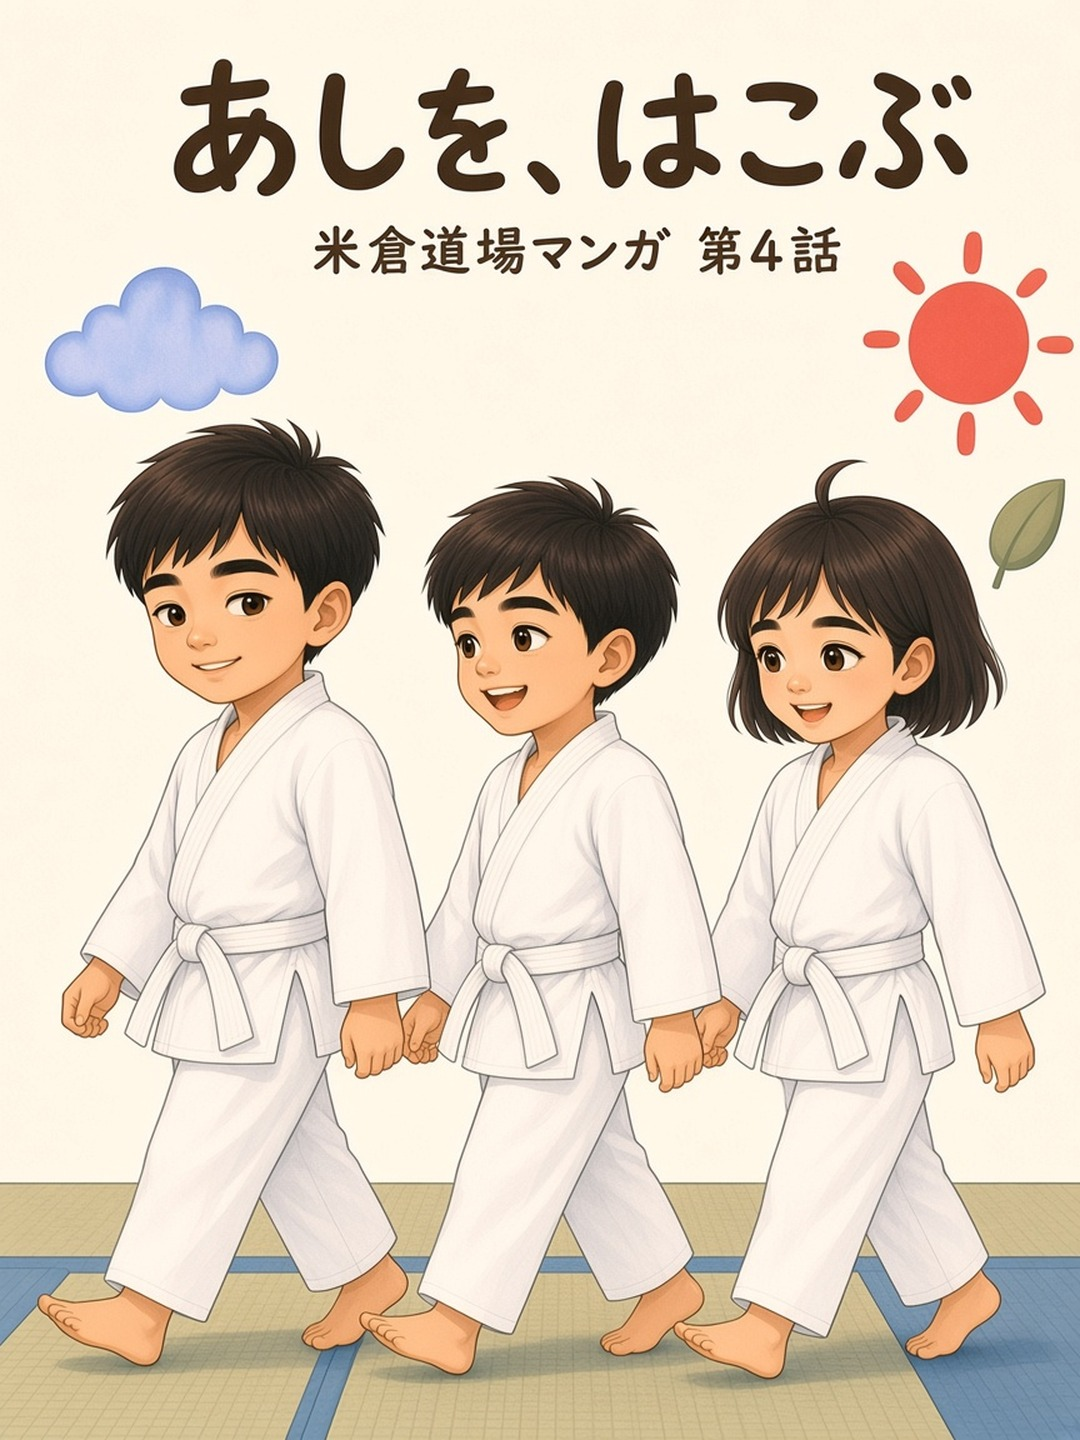
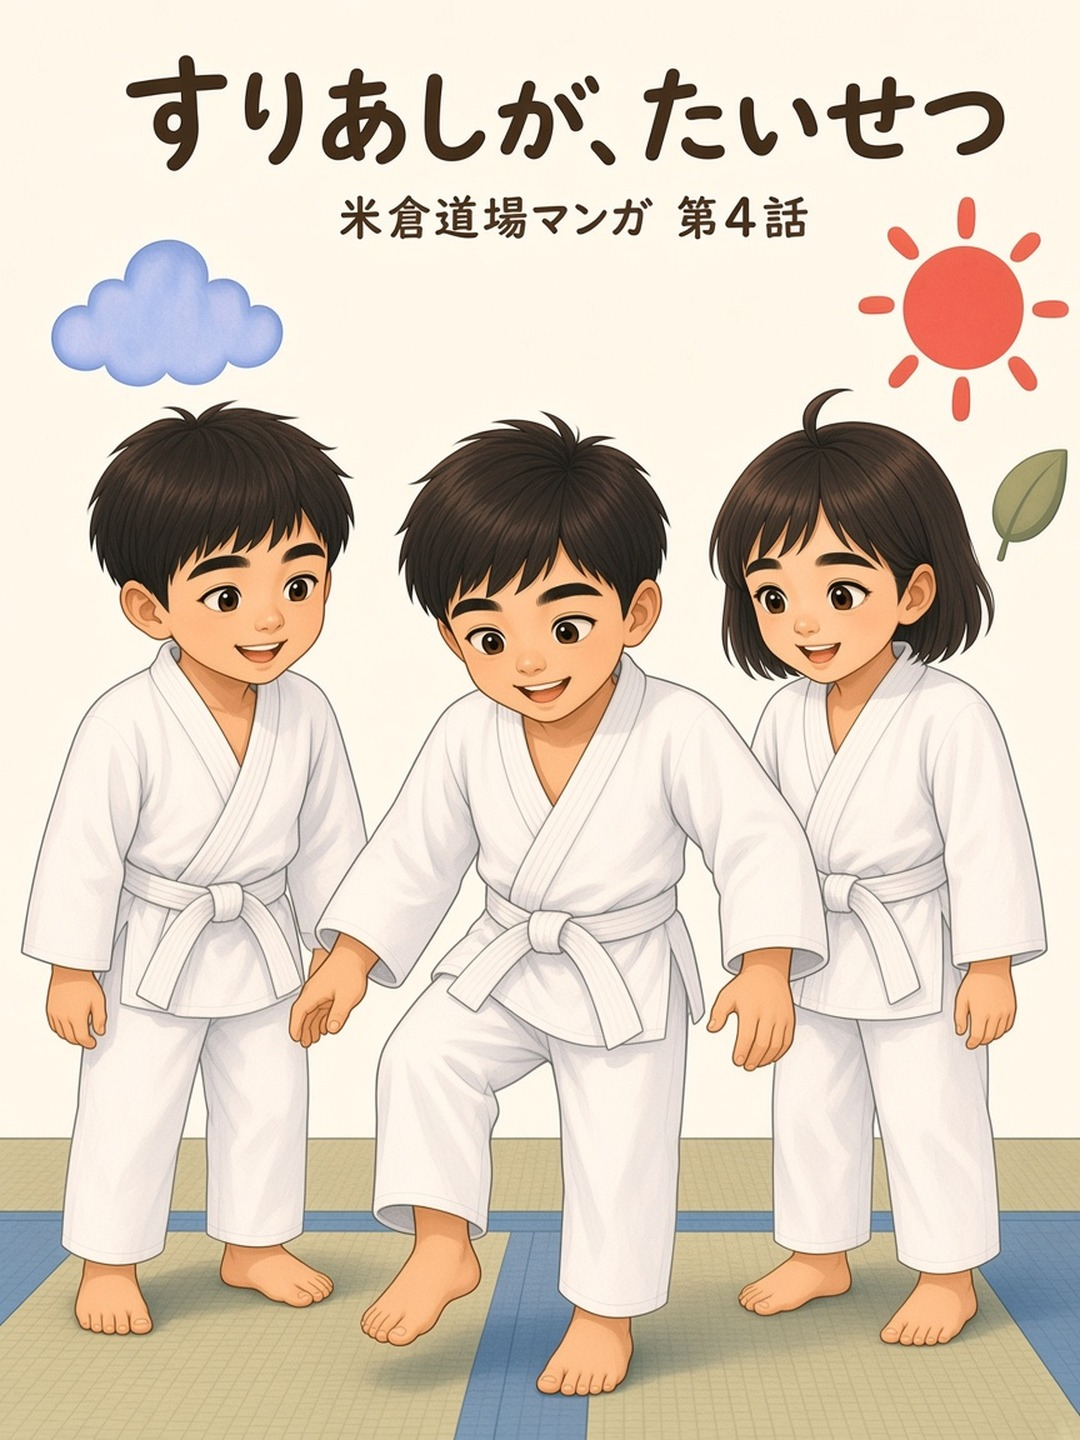
Revise manga ep04 around suri-ashi importance

diff --git a/manga/ep04/gutenberg-content.html b/manga/ep04/gutenberg-content.html
@@ -1,37 +1,37 @@
 <!-- wp:paragraph -->
-<p>道着をきたら、つぎは足。かたくるしい一歩から、とんとんへ——あしを、はこぶ。</p>
+<p>ドン！と足を鳴らすより、畳をすべらせる。——すりあしが、たいせつ。</p>
 <!-- /wp:paragraph -->
 
 <!-- wp:heading {"level":2} -->
-<h2 class="wp-block-heading">第4話『あしを、はこぶ』</h2>
+<h2 class="wp-block-heading">第4話『すりあしが、たいせつ』</h2>
 <!-- /wp:heading -->
 
 <!-- wp:image {"sizeSlug":"full","linkDestination":"none","align":"center"} -->
-<figure class="wp-block-image aligncenter size-full"><img src="https://cdn.jsdelivr.net/gh/bimadisiwin/yonekura-dojo-reels@main/manga/ep04/01-cover.jpg" alt="第4話カバー『あしを、はこぶ』"/><figcaption class="wp-element-caption">01</figcaption></figure>
+<figure class="wp-block-image aligncenter size-full"><img src="https://cdn.jsdelivr.net/gh/bimadisiwin/yonekura-dojo-reels@main/manga/ep04/01-cover.jpg" alt="第4話カバー『すりあしが、たいせつ』"/><figcaption class="wp-element-caption">01</figcaption></figure>
 <!-- /wp:image -->
 
 <!-- wp:image {"sizeSlug":"full","linkDestination":"none","align":"center"} -->
-<figure class="wp-block-image aligncenter size-full"><img src="https://cdn.jsdelivr.net/gh/bimadisiwin/yonekura-dojo-reels@main/manga/ep04/02-stiff.jpg" alt="どうやって…あるくの？"/><figcaption class="wp-element-caption">02</figcaption></figure>
+<figure class="wp-block-image aligncenter size-full"><img src="https://cdn.jsdelivr.net/gh/bimadisiwin/yonekura-dojo-reels@main/manga/ep04/02-stomp.jpg" alt="ドン！ドン！"/><figcaption class="wp-element-caption">02</figcaption></figure>
 <!-- /wp:image -->
 
 <!-- wp:image {"sizeSlug":"full","linkDestination":"none","align":"center"} -->
-<figure class="wp-block-image aligncenter size-full"><img src="https://cdn.jsdelivr.net/gh/bimadisiwin/yonekura-dojo-reels@main/manga/ep04/03-show.jpg" alt="こんなふうに！"/><figcaption class="wp-element-caption">03</figcaption></figure>
+<figure class="wp-block-image aligncenter size-full"><img src="https://cdn.jsdelivr.net/gh/bimadisiwin/yonekura-dojo-reels@main/manga/ep04/03-explain.jpg" alt="すりあしが、たいせつだよ"/><figcaption class="wp-element-caption">03</figcaption></figure>
 <!-- /wp:image -->
 
 <!-- wp:image {"sizeSlug":"full","linkDestination":"none","align":"center"} -->
-<figure class="wp-block-image aligncenter size-full"><img src="https://cdn.jsdelivr.net/gh/bimadisiwin/yonekura-dojo-reels@main/manga/ep04/04-guide.jpg" alt="いっしょにね"/><figcaption class="wp-element-caption">04</figcaption></figure>
+<figure class="wp-block-image aligncenter size-full"><img src="https://cdn.jsdelivr.net/gh/bimadisiwin/yonekura-dojo-reels@main/manga/ep04/04-demo.jpg" alt="すべらせてね"/><figcaption class="wp-element-caption">04</figcaption></figure>
 <!-- /wp:image -->
 
 <!-- wp:image {"sizeSlug":"full","linkDestination":"none","align":"center"} -->
-<figure class="wp-block-image aligncenter size-full"><img src="https://cdn.jsdelivr.net/gh/bimadisiwin/yonekura-dojo-reels@main/manga/ep04/05-walk.jpg" alt="とんとん…"/><figcaption class="wp-element-caption">05</figcaption></figure>
+<figure class="wp-block-image aligncenter size-full"><img src="https://cdn.jsdelivr.net/gh/bimadisiwin/yonekura-dojo-reels@main/manga/ep04/05-try.jpg" alt="ゆっくり…"/><figcaption class="wp-element-caption">05</figcaption></figure>
 <!-- /wp:image -->
 
 <!-- wp:image {"sizeSlug":"full","linkDestination":"none","align":"center"} -->
-<figure class="wp-block-image aligncenter size-full"><img src="https://cdn.jsdelivr.net/gh/bimadisiwin/yonekura-dojo-reels@main/manga/ep04/06-fun.jpg" alt="…あるける！"/><figcaption class="wp-element-caption">06</figcaption></figure>
+<figure class="wp-block-image aligncenter size-full"><img src="https://cdn.jsdelivr.net/gh/bimadisiwin/yonekura-dojo-reels@main/manga/ep04/06-quiet.jpg" alt="…しずか"/><figcaption class="wp-element-caption">06</figcaption></figure>
 <!-- /wp:image -->
 
 <!-- wp:image {"sizeSlug":"full","linkDestination":"none","align":"center"} -->
-<figure class="wp-block-image aligncenter size-full"><img src="https://cdn.jsdelivr.net/gh/bimadisiwin/yonekura-dojo-reels@main/manga/ep04/07-end.jpg" alt="あしも、ともだち"/><figcaption class="wp-element-caption">07</figcaption></figure>
+<figure class="wp-block-image aligncenter size-full"><img src="https://cdn.jsdelivr.net/gh/bimadisiwin/yonekura-dojo-reels@main/manga/ep04/07-end.jpg" alt="すりあしで、いこう"/><figcaption class="wp-element-caption">07</figcaption></figure>
 <!-- /wp:image -->
 
 <!-- wp:paragraph -->

diff --git a/manga/ep04/wp-content.html b/manga/ep04/wp-content.html
@@ -1,37 +1,37 @@
 <!-- wp:paragraph -->
-<p>道着をきたら、つぎは足。かたくるしい一歩から、とんとんへ——あしを、はこぶ。</p>
+<p>ドン！と足を鳴らすより、畳をすべらせる。——すりあしが、たいせつ。</p>
 <!-- /wp:paragraph -->
 
 <!-- wp:heading {"level":2} -->
-<h2 class="wp-block-heading">第4話『あしを、はこぶ』</h2>
+<h2 class="wp-block-heading">第4話『すりあしが、たいせつ』</h2>
 <!-- /wp:heading -->
 
 <!-- wp:image {"sizeSlug":"full","linkDestination":"none","align":"center"} -->
-<figure class="wp-block-image aligncenter size-full"><img src="https://cdn.jsdelivr.net/gh/bimadisiwin/yonekura-dojo-reels@main/manga/ep04/01-cover.jpg" alt="第4話カバー『あしを、はこぶ』"/><figcaption class="wp-element-caption">01</figcaption></figure>
+<figure class="wp-block-image aligncenter size-full"><img src="https://cdn.jsdelivr.net/gh/bimadisiwin/yonekura-dojo-reels@main/manga/ep04/01-cover.jpg" alt="第4話カバー『すりあしが、たいせつ』"/><figcaption class="wp-element-caption">01</figcaption></figure>
 <!-- /wp:image -->
 
 <!-- wp:image {"sizeSlug":"full","linkDestination":"none","align":"center"} -->
-<figure class="wp-block-image aligncenter size-full"><img src="https://cdn.jsdelivr.net/gh/bimadisiwin/yonekura-dojo-reels@main/manga/ep04/02-stiff.jpg" alt="どうやって…あるくの？"/><figcaption class="wp-element-caption">02</figcaption></figure>
+<figure class="wp-block-image aligncenter size-full"><img src="https://cdn.jsdelivr.net/gh/bimadisiwin/yonekura-dojo-reels@main/manga/ep04/02-stomp.jpg" alt="ドン！ドン！"/><figcaption class="wp-element-caption">02</figcaption></figure>
 <!-- /wp:image -->
 
 <!-- wp:image {"sizeSlug":"full","linkDestination":"none","align":"center"} -->
-<figure class="wp-block-image aligncenter size-full"><img src="https://cdn.jsdelivr.net/gh/bimadisiwin/yonekura-dojo-reels@main/manga/ep04/03-show.jpg" alt="こんなふうに！"/><figcaption class="wp-element-caption">03</figcaption></figure>
+<figure class="wp-block-image aligncenter size-full"><img src="https://cdn.jsdelivr.net/gh/bimadisiwin/yonekura-dojo-reels@main/manga/ep04/03-explain.jpg" alt="すりあしが、たいせつだよ"/><figcaption class="wp-element-caption">03</figcaption></figure>
 <!-- /wp:image -->
 
 <!-- wp:image {"sizeSlug":"full","linkDestination":"none","align":"center"} -->
-<figure class="wp-block-image aligncenter size-full"><img src="https://cdn.jsdelivr.net/gh/bimadisiwin/yonekura-dojo-reels@main/manga/ep04/04-guide.jpg" alt="いっしょにね"/><figcaption class="wp-element-caption">04</figcaption></figure>
+<figure class="wp-block-image aligncenter size-full"><img src="https://cdn.jsdelivr.net/gh/bimadisiwin/yonekura-dojo-reels@main/manga/ep04/04-demo.jpg" alt="すべらせてね"/><figcaption class="wp-element-caption">04</figcaption></figure>
 <!-- /wp:image -->
 
 <!-- wp:image {"sizeSlug":"full","linkDestination":"none","align":"center"} -->
-<figure class="wp-block-image aligncenter size-full"><img src="https://cdn.jsdelivr.net/gh/bimadisiwin/yonekura-dojo-reels@main/manga/ep04/05-walk.jpg" alt="とんとん…"/><figcaption class="wp-element-caption">05</figcaption></figure>
+<figure class="wp-block-image aligncenter size-full"><img src="https://cdn.jsdelivr.net/gh/bimadisiwin/yonekura-dojo-reels@main/manga/ep04/05-try.jpg" alt="ゆっくり…"/><figcaption class="wp-element-caption">05</figcaption></figure>
 <!-- /wp:image -->
 
 <!-- wp:image {"sizeSlug":"full","linkDestination":"none","align":"center"} -->
-<figure class="wp-block-image aligncenter size-full"><img src="https://cdn.jsdelivr.net/gh/bimadisiwin/yonekura-dojo-reels@main/manga/ep04/06-fun.jpg" alt="…あるける！"/><figcaption class="wp-element-caption">06</figcaption></figure>
+<figure class="wp-block-image aligncenter size-full"><img src="https://cdn.jsdelivr.net/gh/bimadisiwin/yonekura-dojo-reels@main/manga/ep04/06-quiet.jpg" alt="…しずか"/><figcaption class="wp-element-caption">06</figcaption></figure>
 <!-- /wp:image -->
 
 <!-- wp:image {"sizeSlug":"full","linkDestination":"none","align":"center"} -->
-<figure class="wp-block-image aligncenter size-full"><img src="https://cdn.jsdelivr.net/gh/bimadisiwin/yonekura-dojo-reels@main/manga/ep04/07-end.jpg" alt="あしも、ともだち"/><figcaption class="wp-element-caption">07</figcaption></figure>
+<figure class="wp-block-image aligncenter size-full"><img src="https://cdn.jsdelivr.net/gh/bimadisiwin/yonekura-dojo-reels@main/manga/ep04/07-end.jpg" alt="すりあしで、いこう"/><figcaption class="wp-element-caption">07</figcaption></figure>
 <!-- /wp:image -->
 
 <!-- wp:paragraph -->

diff --git a/manga/ep04/index.html b/manga/ep04/index.html
@@ -3,7 +3,7 @@
 <head>
 <meta charset="UTF-8">
 <meta name="viewport" content="width=device-width, initial-scale=1">
-<title>第4話『あしを、はこぶ』 | 米倉道場マンガ</title>
+<title>第4話『すりあしが、たいせつ』 | 米倉道場マンガ</title>
 <style>
 :root { --paper:#f0ebe8; --ink:#41403e; --accent:#c4a574; --muted:#6b6560; }
 * { box-sizing:border-box; }
@@ -23,18 +23,18 @@ a { color:var(--ink); font-weight:600; }
 </head>
 <body>
 <header>
-  <h1>第4話『あしを、はこぶ』</h1>
-  <p class="intro">道着をきたら、つぎは足。かたくるしい一歩から、とんとんへ——あしを、はこぶ。</p>
+  <h1>第4話『すりあしが、たいせつ』</h1>
+  <p class="intro">ドン！と足を鳴らすより、畳をすべらせる。——すりあしが、たいせつ。</p>
   <div class="accent"></div>
   <div class="nav"><a href="../index.html">← 一覧</a><a href="../ep03/index.html">← 前の話</a></div>
 </header>
 <main>
 <figure><img src="01-cover.jpg" alt="" width="1080" height="1440" loading="eager"></figure>
-<figure><img src="02-stiff.jpg" alt="" width="1080" height="1440" loading="lazy"></figure>
-<figure><img src="03-show.jpg" alt="" width="1080" height="1440" loading="lazy"></figure>
-<figure><img src="04-guide.jpg" alt="" width="1080" height="1440" loading="lazy"></figure>
-<figure><img src="05-walk.jpg" alt="" width="1080" height="1440" loading="lazy"></figure>
-<figure><img src="06-fun.jpg" alt="" width="1080" height="1440" loading="lazy"></figure>
+<figure><img src="02-stomp.jpg" alt="" width="1080" height="1440" loading="lazy"></figure>
+<figure><img src="03-explain.jpg" alt="" width="1080" height="1440" loading="lazy"></figure>
+<figure><img src="04-demo.jpg" alt="" width="1080" height="1440" loading="lazy"></figure>
+<figure><img src="05-try.jpg" alt="" width="1080" height="1440" loading="lazy"></figure>
+<figure><img src="06-quiet.jpg" alt="" width="1080" height="1440" loading="lazy"></figure>
 <figure><img src="07-end.jpg" alt="" width="1080" height="1440" loading="lazy"></figure>
 </main>
 <footer>
